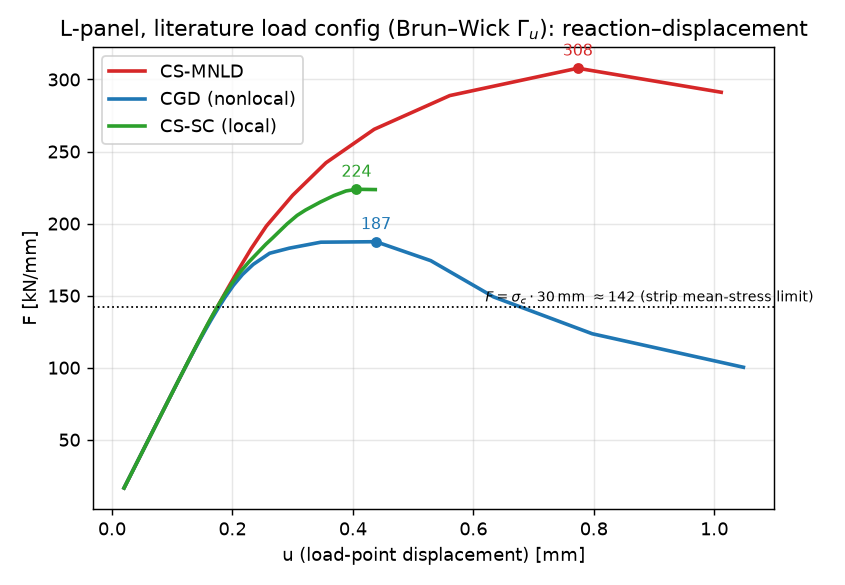
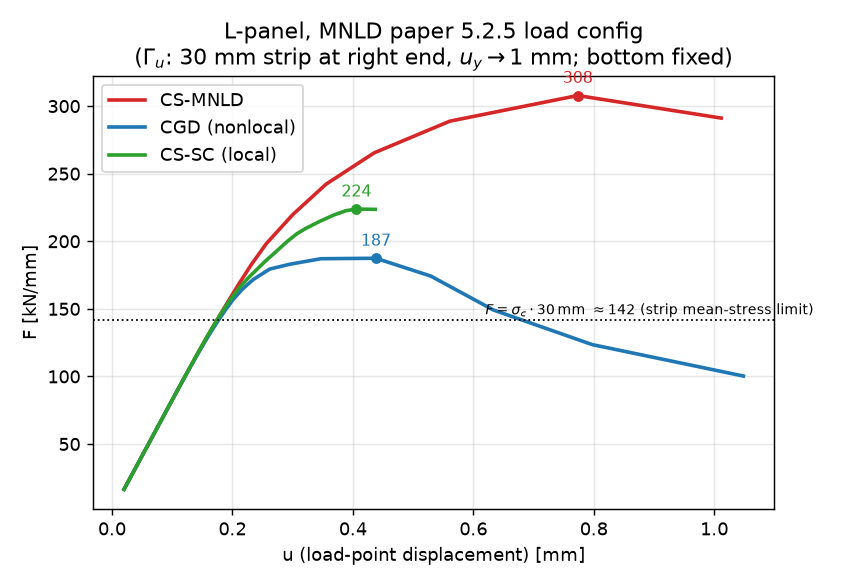
L-shape: MNLD paper as primary config source; fix citation provenance
Per user requirement (references from the attached paper data only, no
web-image confusion):
- L-shape load config documented from MNLD paper 5.2.5 verbatim
  ('a vertical displacement of 1 mm is applied to a 30 mm portion of the
  right end; bottom fully constrained'). The arXiv HTML '11 mm' is a
  markup-doubling artifact (same page: '3030 mm'='30', '33x33'='3x3');
  published text + standard config = 1 mm. Strip location corroborated
  by the MNLD paper's own standard-L-panel refs (Winkler 2001 thesis,
  Radulovic 2011, Huang 2016) and verbatim in Brun et al. arXiv:1903.08717
  5.3 monotonic variant ('lower left boundary fixed; uy on 30 mm section
  at the right corner').
- Crack path claim corrected: initial angle ~27 deg up-left from the
  reentrant corner, inside the Winkler-experiment bracket 0-43 deg and
  the variational-fracture range 26.06-33.21 deg (Mesgarnejad-Bourdin-
  Khonsari 2015). Removed the incorrect 'mirrored path' wording.
- Reference paper cited in full: Jin, Li & Chen 2024, IJNME 125(22):e7572
  (title + authors + DOI) everywhere, removing ambiguity.
- Added references section (all paper sources; anchors digitised from
  the attached PDFs only). run_bench.py provenance comment fixed.
- lshape_curves.png regenerated with corrected title.

diff --git a/run_bench.py b/run_bench.py
@@ -21,7 +21,9 @@ from asq.kernels import VAR_CGD, VAR_MNLD, VAR_SC
 RESULTS = os.path.join(os.path.dirname(os.path.abspath(__file__)), 'results')
 os.makedirs(RESULTS, exist_ok=True)
 
-# digitised Jin 2024 anchors (v4; to be replaced by PDF extraction)
+# Reference anchors digitised from the attached paper PDF:
+# Jin, Li & Chen 2024, IJNME 125(22):e7572 (L-BFGS monolithic
+# AT2 phase-field), Figs./Table 1. NOT from web sources.
 JIN_ANCHORS = {
     'jin_snt_pf': dict(F=[0, 0.28, 0.52, 0.72, 0.7565, 0.61, 0.24, 0.02, 0.005],
                        u=[0, 0.0015, 0.003, 0.0045, 0.0059, 0.0062, 0.0065,
